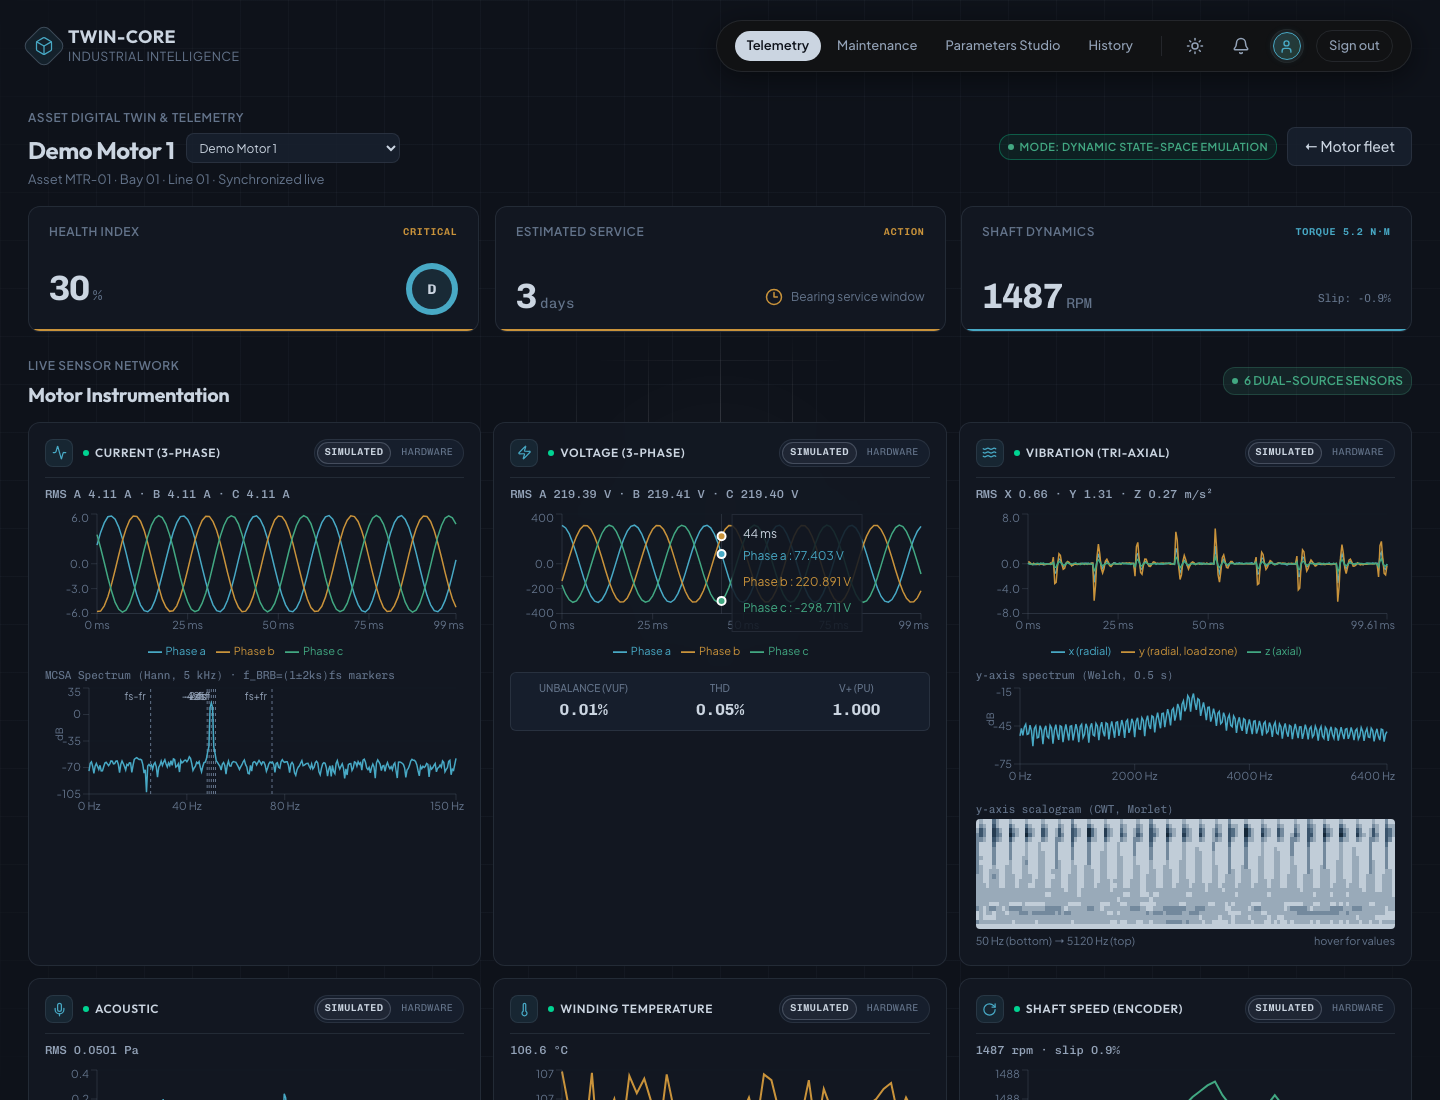
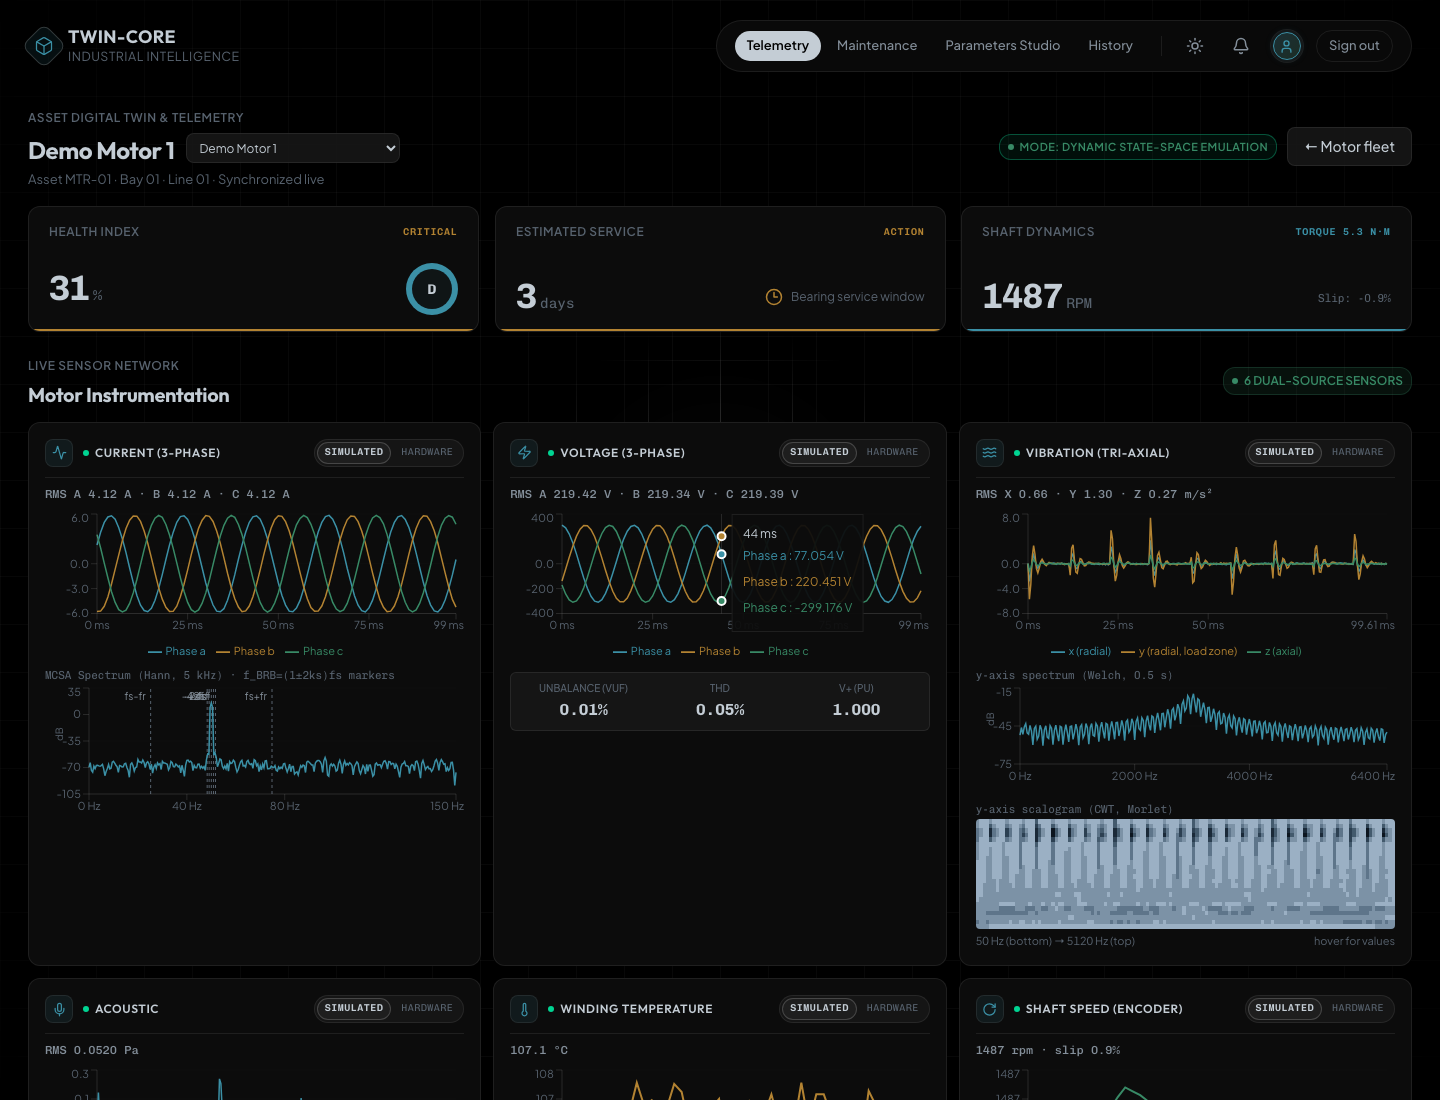
style: enforce pure black background while decreasing saturation and contrast of UI colors

diff --git a/frontend/src/index.css b/frontend/src/index.css
@@ -3,46 +3,46 @@
 @import 'tailwindcss';
 
 :root {
-  /* Colors - Softened & Desaturated Telemetry Palette */
-  --page: #0e121a;
-  --surface: rgba(18, 24, 34, 0.88);
-  --surface-raised: rgba(24, 32, 46, 0.85);
+  /* Colors - Pure Black Background with Decreased Saturation & Low-Contrast Telemetry Accents */
+  --page: #000000;
+  --surface: rgba(13, 13, 13, 0.94);
+  --surface-raised: rgba(22, 22, 22, 0.90);
   --surface-hover: rgba(255, 255, 255, 0.04);
-  --ink: #cbd5e1;
-  --ink-2: #94a3b8;
-  --muted: #64748b;
-  --border: rgba(148, 163, 184, 0.14);
-  --border-subtle: rgba(148, 163, 184, 0.07);
-  --border-hover: rgba(148, 163, 184, 0.32);
-  --border-focus: #94a3b8;
-  --accent: #48a9c5;
-  --accent-hover: #3b94ad;
-  --accent-glow: rgba(72, 169, 197, 0.18);
-  --data-cyan: #48a9c5;
-  --good: #42a882;
-  --good-bg: rgba(66, 168, 130, 0.12);
-  --warning: #c9933b;
-  --warning-bg: rgba(201, 147, 59, 0.12);
-  --serious: #c8733b;
-  --serious-bg: rgba(200, 115, 59, 0.12);
-  --critical: #c95555;
-  --critical-bg: rgba(201, 85, 85, 0.12);
-  --indeterminate: #8592a3;
-  --indeterminate-bg: rgba(133, 146, 163, 0.12);
-  --series-1: #48a9c5;
-  --series-2: #c9933b;
-  --series-3: #42a882;
-  --grid: rgba(148, 163, 184, 0.05);
-  --axis: rgba(148, 163, 184, 0.18);
+  --ink: #c4cdd5;
+  --ink-2: #848f9a;
+  --muted: #58636f;
+  --border: rgba(255, 255, 255, 0.08);
+  --border-subtle: rgba(255, 255, 255, 0.04);
+  --border-hover: rgba(255, 255, 255, 0.18);
+  --border-focus: #848f9a;
+  --accent: #3b90a6;
+  --accent-hover: #317c90;
+  --accent-glow: rgba(59, 144, 166, 0.15);
+  --data-cyan: #3b90a6;
+  --good: #388a66;
+  --good-bg: rgba(56, 138, 102, 0.12);
+  --warning: #b38332;
+  --warning-bg: rgba(179, 131, 50, 0.12);
+  --serious: #b06232;
+  --serious-bg: rgba(176, 98, 50, 0.12);
+  --critical: #ad4444;
+  --critical-bg: rgba(173, 68, 68, 0.12);
+  --indeterminate: #6d7580;
+  --indeterminate-bg: rgba(109, 117, 128, 0.12);
+  --series-1: #3b90a6;
+  --series-2: #b38332;
+  --series-3: #388a66;
+  --grid: rgba(255, 255, 255, 0.035);
+  --axis: rgba(255, 255, 255, 0.12);
   
   /* Enterprise specific */
-  --brand-primary: #48a9c5;
-  --brand-tertiary: #42a882;
+  --brand-primary: #3b90a6;
+  --brand-tertiary: #388a66;
   --surface-bg: var(--surface);
   --text-primary: var(--ink);
   --text-secondary: var(--ink-2);
   --text-tertiary: var(--muted);
-  --twin-shadow: 0 8px 32px rgba(0, 0, 0, 0.35);
+  --twin-shadow: 0 8px 32px rgba(0, 0, 0, 0.6);
 
   /* Spacing & Layout */
   --space-xs: 4px;
@@ -207,13 +207,13 @@ h1, h2, h3, h4, h5, h6, .brand-name {
   display: flex;
   align-items: center;
   gap: 12px;
-  background: rgba(18, 18, 18, 0.78);
+  background: rgba(10, 10, 10, 0.85);
   border: 1px solid var(--border);
   border-radius: var(--corner-full);
   padding: 8px 18px;
   backdrop-filter: blur(18px);
   -webkit-backdrop-filter: blur(18px);
-  box-shadow: 0 6px 28px rgba(0, 0, 0, 0.45);
+  box-shadow: 0 6px 28px rgba(0, 0, 0, 0.65);
   transition: border-color 0.2s, background 0.2s;
 }
 :root[data-theme='light'] .nav-island {
@@ -488,7 +488,7 @@ h1, h2, h3, h4, h5, h6, .brand-name {
   place-items: center;
   border-radius: var(--corner-md);
   color: var(--accent);
-  background: rgba(72, 169, 197, 0.1);
+  background: rgba(59, 144, 166, 0.1);
   border: 1px solid var(--border);
   flex-shrink: 0;
 }
@@ -724,7 +724,7 @@ h1, h2, h3, h4, h5, h6, .brand-name {
 }
 .btn-primary {
   background: var(--accent);
-  color: #0e121a;
+  color: #000000;
   border: none;
 }
 .btn-primary:hover {
@@ -764,7 +764,7 @@ h1, h2, h3, h4, h5, h6, .brand-name {
   padding: 4px 8px;
   border-radius: 12px;
   background: var(--good-bg);
-  border: 1px solid rgba(66, 168, 130, 0.25);
+  border: 1px solid rgba(56, 138, 102, 0.25);
   color: var(--good);
   font-size: 0.75rem;
   font-weight: 600;
@@ -792,9 +792,9 @@ h1, h2, h3, h4, h5, h6, .brand-name {
 }
 
 @keyframes hotspot-pulse {
-  0% { box-shadow: 0 0 0 0 rgba(201, 85, 85, 0.35); }
-  70% { box-shadow: 0 0 0 10px rgba(201, 85, 85, 0); }
-  100% { box-shadow: 0 0 0 0 rgba(201, 85, 85, 0); }
+  0% { box-shadow: 0 0 0 0 rgba(173, 68, 68, 0.35); }
+  70% { box-shadow: 0 0 0 10px rgba(173, 68, 68, 0); }
+  100% { box-shadow: 0 0 0 0 rgba(173, 68, 68, 0); }
 }
 
 @keyframes hud-enter {
@@ -875,7 +875,7 @@ h1, h2, h3, h4, h5, h6, .brand-name {
   border: 1px solid var(--border-hover);
   border-radius: var(--corner-md);
   color: var(--accent);
-  background: rgba(72, 169, 197, 0.1);
+  background: rgba(59, 144, 166, 0.1);
   transform: rotate(45deg);
   flex-shrink: 0;
 }
@@ -997,7 +997,7 @@ h1, h2, h3, h4, h5, h6, .brand-name {
 .nav-profile-chip:hover {
   background: var(--surface-hover);
   border-color: var(--accent);
-  box-shadow: 0 0 10px rgba(72, 169, 197, 0.18);
+  box-shadow: 0 0 10px rgba(59, 144, 166, 0.18);
 }
 .nav-profile-chip:focus-visible {
   border-color: var(--accent);
@@ -1007,7 +1007,7 @@ h1, h2, h3, h4, h5, h6, .brand-name {
   width: 28px;
   height: 28px;
   border-radius: 50%;
-  background: linear-gradient(135deg, rgba(72, 169, 197, 0.22), rgba(66, 168, 130, 0.22));
+  background: linear-gradient(135deg, rgba(59, 144, 166, 0.22), rgba(56, 138, 102, 0.22));
   border: 1.5px solid var(--accent);
   display: flex;
   align-items: center;
@@ -1015,7 +1015,7 @@ h1, h2, h3, h4, h5, h6, .brand-name {
   color: var(--accent);
   font-size: 12px;
   font-weight: 700;
-  box-shadow: 0 0 8px rgba(72, 169, 197, 0.15);
+  box-shadow: 0 0 8px rgba(59, 144, 166, 0.15);
   flex-shrink: 0;
 }
 .nav-profile-name {
@@ -1037,8 +1037,8 @@ h1, h2, h3, h4, h5, h6, .brand-name {
 }
 .nav-signout:hover {
   color: #c95555;
-  border-color: rgba(201, 85, 85, 0.3);
-  background: rgba(201, 85, 85, 0.08);
+  border-color: rgba(173, 68, 68, 0.3);
+  background: rgba(173, 68, 68, 0.08);
 }
 
 /* Dashboard Content Shell */
@@ -1116,12 +1116,12 @@ h1, h2, h3, h4, h5, h6, .brand-name {
 .kpi-trip-badge--tripped {
   background: var(--critical-bg);
   color: var(--critical);
-  border: 1px solid rgba(201, 85, 85, 0.25);
+  border: 1px solid rgba(173, 68, 68, 0.25);
 }
 .kpi-trip-badge--armed {
   background: var(--good-bg);
   color: var(--good);
-  border: 1px solid rgba(66, 168, 130, 0.25);
+  border: 1px solid rgba(56, 138, 102, 0.25);
 }
 
 /* Tri-Panel Control Deck */
@@ -1224,7 +1224,7 @@ h1, h2, h3, h4, h5, h6, .brand-name {
   padding: 8px 12px;
   border-radius: var(--corner-md);
   background: var(--critical-bg);
-  border: 1px solid rgba(201, 85, 85, 0.25);
+  border: 1px solid rgba(173, 68, 68, 0.25);
 }
 .login-submit {
   width: 100%;
@@ -1370,7 +1370,7 @@ body:has(.modal-backdrop) .floating-nav {
   top: 0;
   bottom: 0;
   width: 5px;
-  background: linear-gradient(180deg, var(--accent) 0%, rgba(66, 168, 130, 0.7) 50%, var(--accent) 100%);
+  background: linear-gradient(180deg, var(--accent) 0%, rgba(56, 138, 102, 0.7) 50%, var(--accent) 100%);
   border-top-left-radius: 12px;
   border-bottom-left-radius: 12px;
   z-index: 10;
@@ -1411,9 +1411,9 @@ body:has(.modal-backdrop) .floating-nav {
 }
 
 .book-tab-pill.is-active {
-  background: rgba(72, 169, 197, 0.12);
+  background: rgba(59, 144, 166, 0.12);
   color: var(--accent);
-  border-color: rgba(72, 169, 197, 0.25);
+  border-color: rgba(59, 144, 166, 0.25);
 }
 
 .book-turn-btn {
@@ -1435,7 +1435,7 @@ body:has(.modal-backdrop) .floating-nav {
   background: var(--surface-hover);
   border-color: var(--accent);
   color: var(--accent);
-  box-shadow: 0 0 8px rgba(72, 169, 197, 0.15);
+  box-shadow: 0 0 8px rgba(59, 144, 166, 0.15);
 }
 
 .book-turn-btn:disabled {
@@ -1550,7 +1550,7 @@ body:has(.modal-backdrop) .floating-nav {
   border-radius: 9999px;
 }
 .modal-body::-webkit-scrollbar-thumb:hover {
-  background: rgba(72, 169, 197, 0.45);
+  background: rgba(59, 144, 166, 0.45);
 }
 
 .modal-footer {

diff --git a/frontend/src/components/TripBanner.tsx b/frontend/src/components/TripBanner.tsx
@@ -44,7 +44,7 @@ export const TripBanner: React.FC<TripBannerProps> = ({ trippedMotors, onAcknowl
     <div
       role="alert"
       aria-live="assertive"
-      className="sticky top-0 z-50 w-full border-b border-[var(--critical)]/30 bg-[#1c1216]/95 backdrop-blur-md px-4 py-3 text-[var(--ink)] shadow-lg shadow-black/40"
+      className="sticky top-0 z-50 w-full border-b border-[var(--critical)]/25 bg-[#0d0708]/95 backdrop-blur-md px-4 py-3 text-[var(--ink)] shadow-lg shadow-black/60"
     >
       <div className="mx-auto flex max-w-7xl flex-wrap items-center justify-between gap-4">
         <div className="flex items-center gap-3">
@@ -73,7 +73,7 @@ export const TripBanner: React.FC<TripBannerProps> = ({ trippedMotors, onAcknowl
               key={m.id}
               onClick={() => handleAcknowledge(m.id)}
               disabled={loadingIds[m.id]}
-              className="inline-flex items-center gap-1.5 rounded bg-[var(--critical)] hover:opacity-90 px-3 py-1.5 text-xs font-semibold text-[#0e121a] shadow-sm transition focus:outline-none disabled:opacity-50"
+              className="inline-flex items-center gap-1.5 rounded bg-[var(--critical)] hover:opacity-90 px-3 py-1.5 text-xs font-semibold text-[#000000] shadow-sm transition focus:outline-none disabled:opacity-50"
             >
               {loadingIds[m.id] ? 'Acknowledging...' : `Acknowledge ${m.name}`}
             </button>

diff --git a/frontend/src/components/StatusBadge.tsx b/frontend/src/components/StatusBadge.tsx
@@ -2,10 +2,10 @@ import type { SadaStateName } from '../api/types'
 
 // Minimalist status tokens, paired with icon + text label (never color alone).
 const STYLE: Record<SadaStateName, { color: string; bg: string; icon: string; text: string; border: string }> = {
-  NORMAL: { color: 'var(--good)', bg: 'var(--good-bg)', icon: '✓', text: 'Normal', border: 'rgba(66, 168, 130, 0.25)' },
-  WATCH: { color: 'var(--warning)', bg: 'var(--warning-bg)', icon: '!', text: 'Watch', border: 'rgba(201, 147, 59, 0.25)' },
-  DERATE: { color: 'var(--serious)', bg: 'var(--serious-bg)', icon: '▼', text: 'Derate', border: 'rgba(200, 115, 59, 0.25)' },
-  TRIP: { color: 'var(--critical)', bg: 'var(--critical-bg)', icon: '■', text: 'Trip', border: 'rgba(201, 85, 85, 0.25)' },
+  NORMAL: { color: 'var(--good)', bg: 'var(--good-bg)', icon: '✓', text: 'Normal', border: 'rgba(56, 138, 102, 0.25)' },
+  WATCH: { color: 'var(--warning)', bg: 'var(--warning-bg)', icon: '!', text: 'Watch', border: 'rgba(179, 131, 50, 0.25)' },
+  DERATE: { color: 'var(--serious)', bg: 'var(--serious-bg)', icon: '▼', text: 'Derate', border: 'rgba(176, 98, 50, 0.25)' },
+  TRIP: { color: 'var(--critical)', bg: 'var(--critical-bg)', icon: '■', text: 'Trip', border: 'rgba(173, 68, 68, 0.25)' },
 }
 
 export function StatusBadge({ state }: { state: SadaStateName }) {

diff --git a/frontend/src/components/HealthGauge.tsx b/frontend/src/components/HealthGauge.tsx
@@ -11,14 +11,14 @@ export interface HealthGaugeProps {
 const getZoneColor = (zone: string) => {
   switch (zone) {
     case 'A':
-      return { stroke: 'var(--good)', text: 'text-emerald-500/90', bg: 'var(--good-bg)', border: 'rgba(66, 168, 130, 0.25)' }
+      return { stroke: 'var(--good)', text: 'text-emerald-500/80', bg: 'var(--good-bg)', border: 'rgba(56, 138, 102, 0.25)' }
     case 'B':
-      return { stroke: 'var(--warning)', text: 'text-amber-500/90', bg: 'var(--warning-bg)', border: 'rgba(201, 147, 59, 0.25)' }
+      return { stroke: 'var(--warning)', text: 'text-amber-500/80', bg: 'var(--warning-bg)', border: 'rgba(179, 131, 50, 0.25)' }
     case 'C':
-      return { stroke: 'var(--serious)', text: 'text-orange-500/90', bg: 'var(--serious-bg)', border: 'rgba(200, 115, 59, 0.25)' }
+      return { stroke: 'var(--serious)', text: 'text-orange-500/80', bg: 'var(--serious-bg)', border: 'rgba(176, 98, 50, 0.25)' }
     case 'D':
     default:
-      return { stroke: 'var(--critical)', text: 'text-rose-500/90', bg: 'var(--critical-bg)', border: 'rgba(201, 85, 85, 0.25)' }
+      return { stroke: 'var(--critical)', text: 'text-rose-500/80', bg: 'var(--critical-bg)', border: 'rgba(173, 68, 68, 0.25)' }
   }
 }
 

diff --git a/frontend/src/components/ProfileDatabaseModal.tsx b/frontend/src/components/ProfileDatabaseModal.tsx
@@ -334,7 +334,7 @@ export function ProfileDatabaseModal({ isOpen, onClose, onOpenDocs, user }: Prof
                 </div>
               </div>
               {isConnected && (
-                <div className="live-pill" style={{ borderColor: 'rgba(66, 168, 130, 0.35)' }}>
+                <div className="live-pill" style={{ borderColor: 'rgba(56, 138, 102, 0.35)' }}>
                   <span className="live-dot" style={{ background: 'var(--good)', boxShadow: '0 0 6px var(--good)' }} />
                   <span style={{ color: 'var(--good)' }}>HEALTHY</span>
                 </div>

diff --git a/frontend/src/components/charts/Scalogram.tsx b/frontend/src/components/charts/Scalogram.tsx
@@ -1,7 +1,7 @@
 import { useEffect, useRef, useState } from 'react'
 
 // Sequential single-hue (slate-steel) ramp, light -> dark = low -> high magnitude.
-const RAMP = ['#c1cdd8', '#99aab9', '#73899d', '#536d84', '#39536b', '#253c52', '#142738']
+const RAMP = ['#9bb0c4', '#7c92a6', '#5e758a', '#435a6d', '#2c4052', '#1a2938', '#0c151f']
 
 function rampColor(x: number) {
   const i = Math.min(RAMP.length - 1, Math.max(0, Math.floor(x * RAMP.length)))
